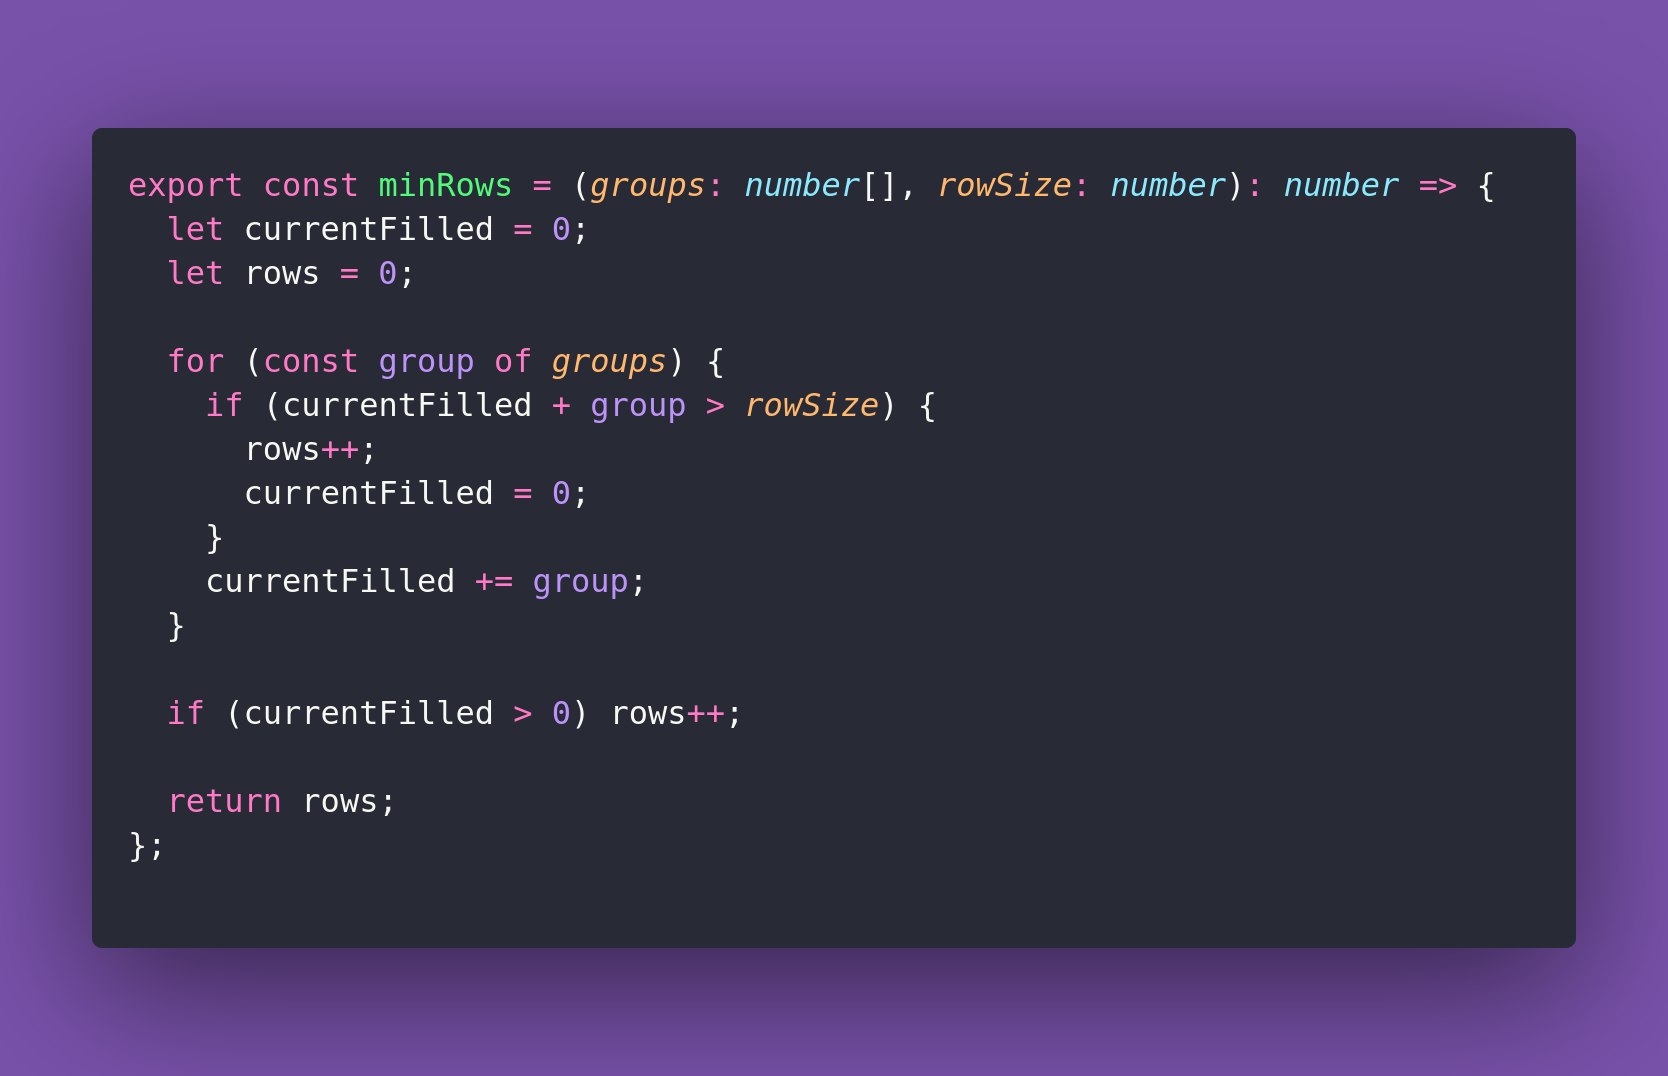
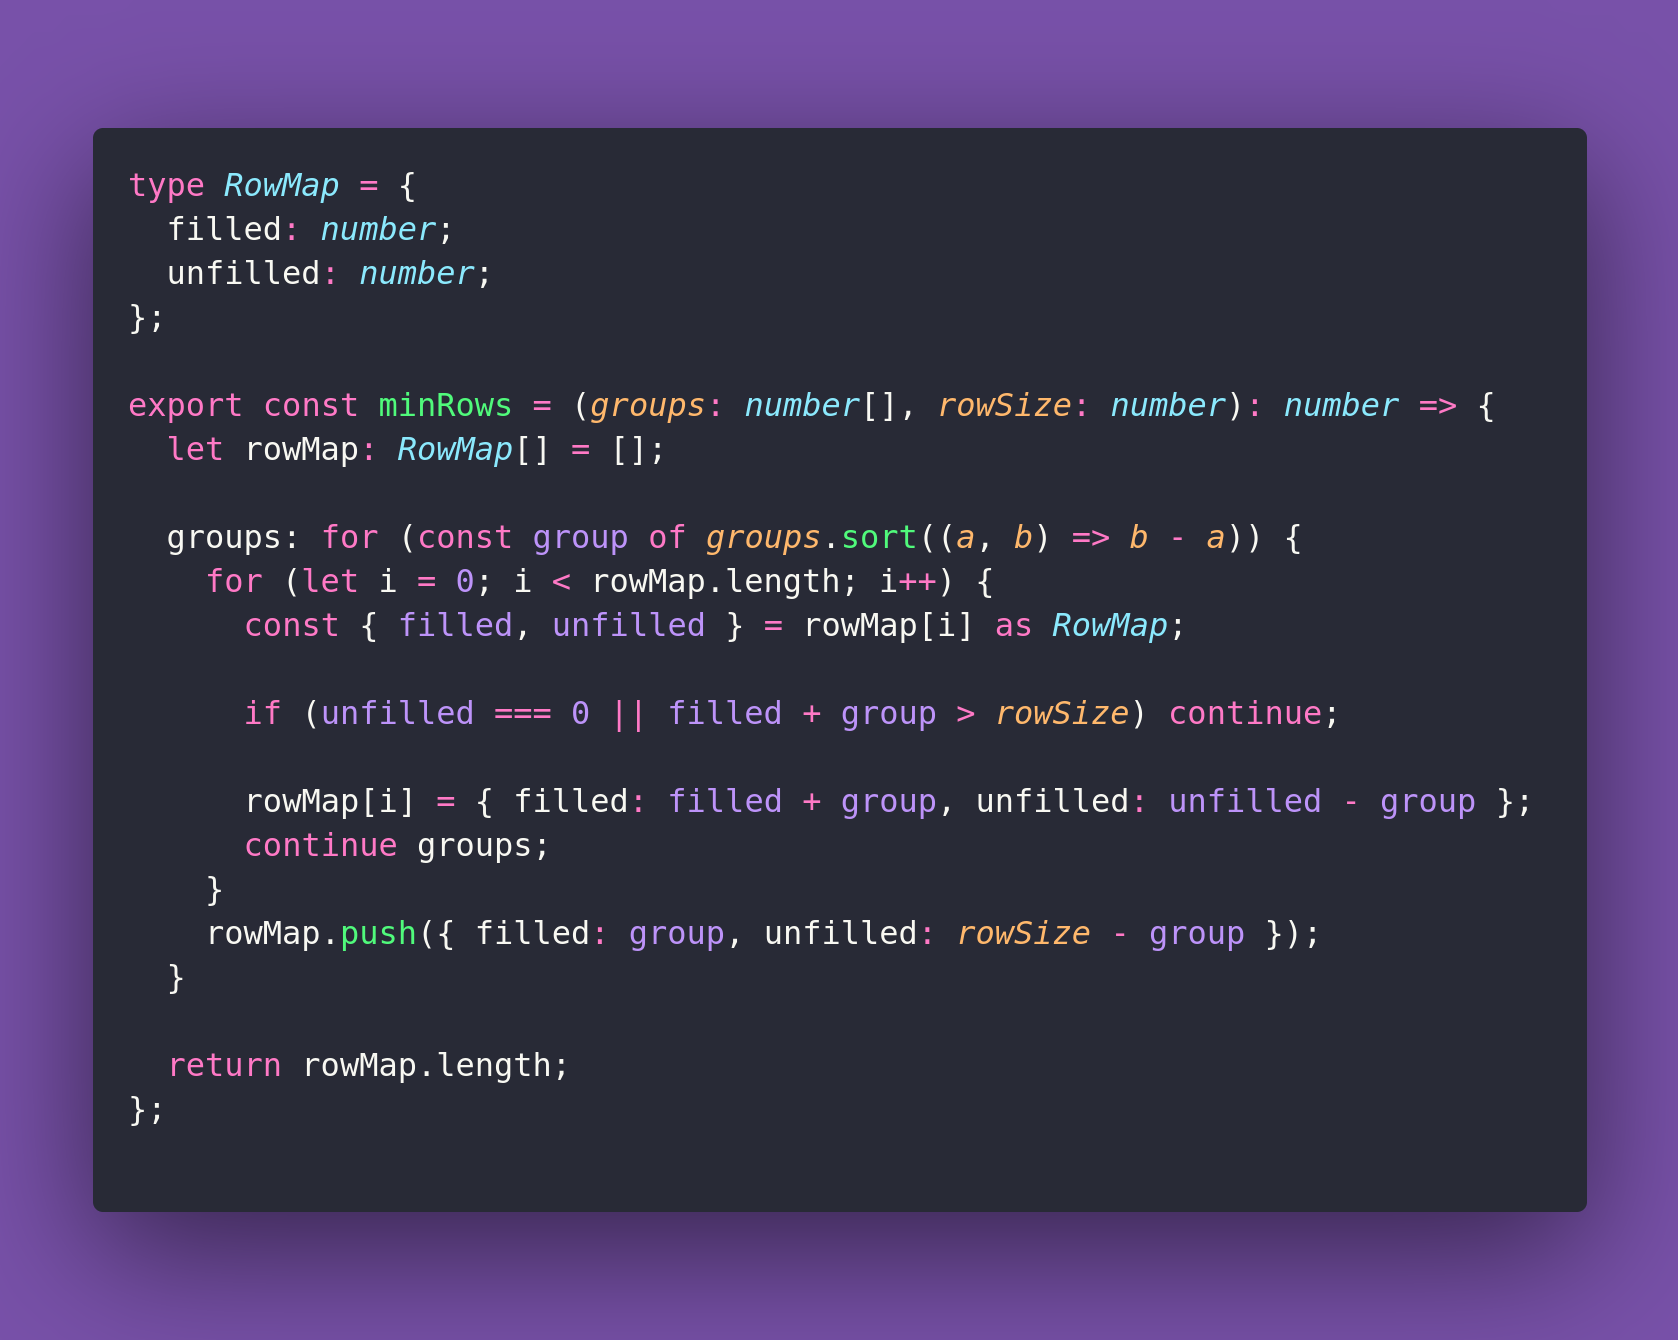
:bug: Fix issue in 369-min-rows

diff --git a/src/369-min-rows/min-rows.ts b/src/369-min-rows/min-rows.ts
@@ -1,16 +1,22 @@
-export const minRows = (groups: number[], rowSize: number): number => {
-  let currentFilled = 0;
-  let rows = 0;
+type RowMap = {
+  filled: number;
+  unfilled: number;
+};
 
-  for (const group of groups) {
-    if (currentFilled + group > rowSize) {
-      rows++;
-      currentFilled = 0;
+export const minRows = (groups: number[], rowSize: number): number => {
+  let rowMap: RowMap[] = [];
+
+  groups: for (const group of groups.sort((a, b) => b - a)) {
+    for (let i = 0; i < rowMap.length; i++) {
+      const { filled, unfilled } = rowMap[i] as RowMap;
+
+      if (unfilled === 0 || filled + group > rowSize) continue;
+
+      rowMap[i] = { filled: filled + group, unfilled: unfilled - group };
+      continue groups;
     }
-    currentFilled += group;
+    rowMap.push({ filled: group, unfilled: rowSize - group });
   }
 
-  if (currentFilled > 0) rows++;
-
-  return rows;
+  return rowMap.length;
 };

diff --git a/src/369-min-rows/min-rows.test.ts b/src/369-min-rows/min-rows.test.ts
@@ -22,7 +22,7 @@ const TEST_CASES: TestCase[] = [
       groups: [4, 8, 3, 5, 6],
       rowSize: 10,
     },
-    output: 4,
+    output: 3,
   },
   {
     input: {
@@ -37,6 +37,20 @@ const TEST_CASES: TestCase[] = [
       rowSize: 10,
     },
     output: 5,
+  },
+  {
+    input: {
+      groups: [1, 1, 1, 1, 1],
+      rowSize: 1,
+    },
+    output: 5,
+  },
+  {
+    input: {
+      groups: [19, 10, 12, 10, 24, 15, 10, 24, 18, 10],
+      rowSize: 25,
+    },
+    output: 7,
   },
 ];
 

diff --git a/src/369-min-rows/README.md b/src/369-min-rows/README.md
@@ -15,7 +15,7 @@ a given row size!
 let rowSize = 10
 
 > minRows([4, 8, 3, 5, 6], rowSize)
-> 4
+> 3
 
 > minRows([4, 5, 4, 3, 3], rowSize)
 > 2
